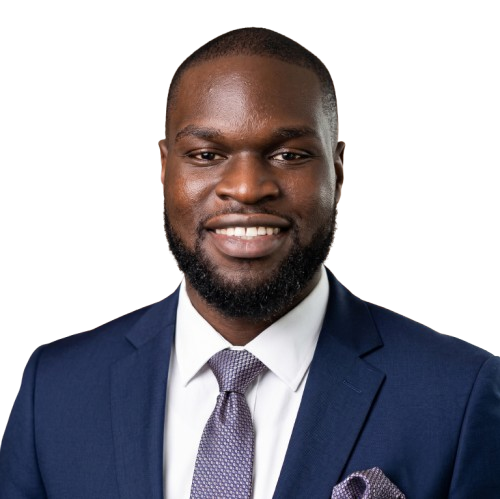
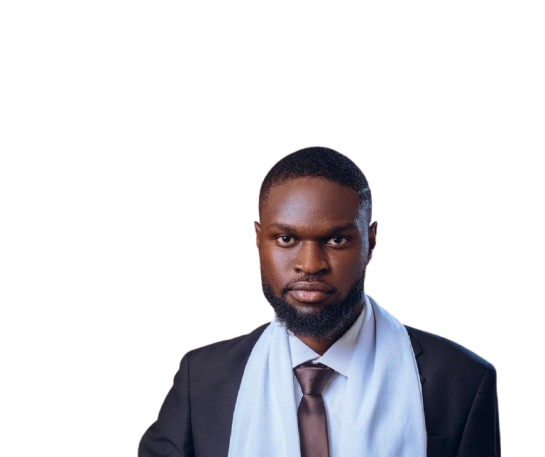
Third portfolio edit deploy profile picture

diff --git a/style.css b/style.css
@@ -806,3 +806,13 @@ ul { list-style: none; }
   .footer-inner { flex-direction: column; text-align: center; }
   .social-row { flex-direction: column; align-items: center; }
 }
+
+.my-profile-pic {
+  background-image: url('my-picture.png'); 
+  background-size: 196%; 
+  background-position: 70% 100%; 
+  background-repeat: no-repeat; 
+  width: 100%; 
+  height: 100%; 
+  border-radius: inherit; 
+}

diff --git a/index.html b/index.html
@@ -98,7 +98,8 @@
         <div class="about-photo-col fade-in">
           <div class="photo-wrapper">
             <div class="photo-placeholder">
-              <img src="my-picture.png" alt="Profile Picture" style="width: 100%; height: 100%; object-fit: cover; border-radius: inherit;">
+              <div class="photo-placeholder my-profile-pic">
+                </div>
             </div>
             <div class="photo-border-tl"></div>
             <div class="photo-border-br"></div>
@@ -113,7 +114,7 @@
         <div class="about-text-col fade-in">
           <h2 class="section-title">The engineer keeping<br/><em>your uptime in the green.</em></h2>
           <p>I'm Jude Daodu, an IT &amp; Cloud Engineer currently at <strong>one of the leading Fintech companies in Africa</strong>, where I manage hybrid infrastructure serving over 5,000 internal users and ensuring a fintech platform stays reliable for <strong>30 million+ customers</strong>.</p>
-          <p>My work spans cloud architecture (AWS, Azure), network engineering, infrastructure automation with Terraform and Python, disaster recovery, and security hardening — including an MDM/RADIUS deployment that <strong>saved the company $10 million</strong>.</p>
+          <p>My work spans cloud architecture (AWS, Azure), network engineering, infrastructure automation with Terraform and Python, disaster recovery, and security hardening — including an MDM/RADIUS deployment that <strong>saved the company $1 million</strong>.</p>
           <p>I hold an <strong>AWS Solutions Architect </strong> certification, an Oracle Cloud credential, and a B.Eng. in Computer Engineering.</p>
 
           <div class="soft-skills-grid">
@@ -237,7 +238,7 @@
           <div class="card-body">
             <p class="card-category">Security Engineering</p>
             <h3 class="card-title">Enterprise Zero-Trust Network Auth</h3>
-            <p class="card-desc">Architected Headwind MDM and FreeRADIUS for 802.1X network authentication across a 5,000+ user enterprise environment. Enforced strict least-privilege access controls and secured device onboarding — saving the company <strong>$10 million</strong> in potential breach exposure.</p>
+            <p class="card-desc">Architected Headwind MDM and FreeRADIUS for 802.1X network authentication across a 5,000+ user enterprise environment. Enforced strict least-privilege access controls and secured device onboarding — saving the company <strong>$1 million</strong> </p>
             <div class="card-tags">
               <span class="tag">FreeRADIUS</span>
               <span class="tag">Headwind MDM</span>